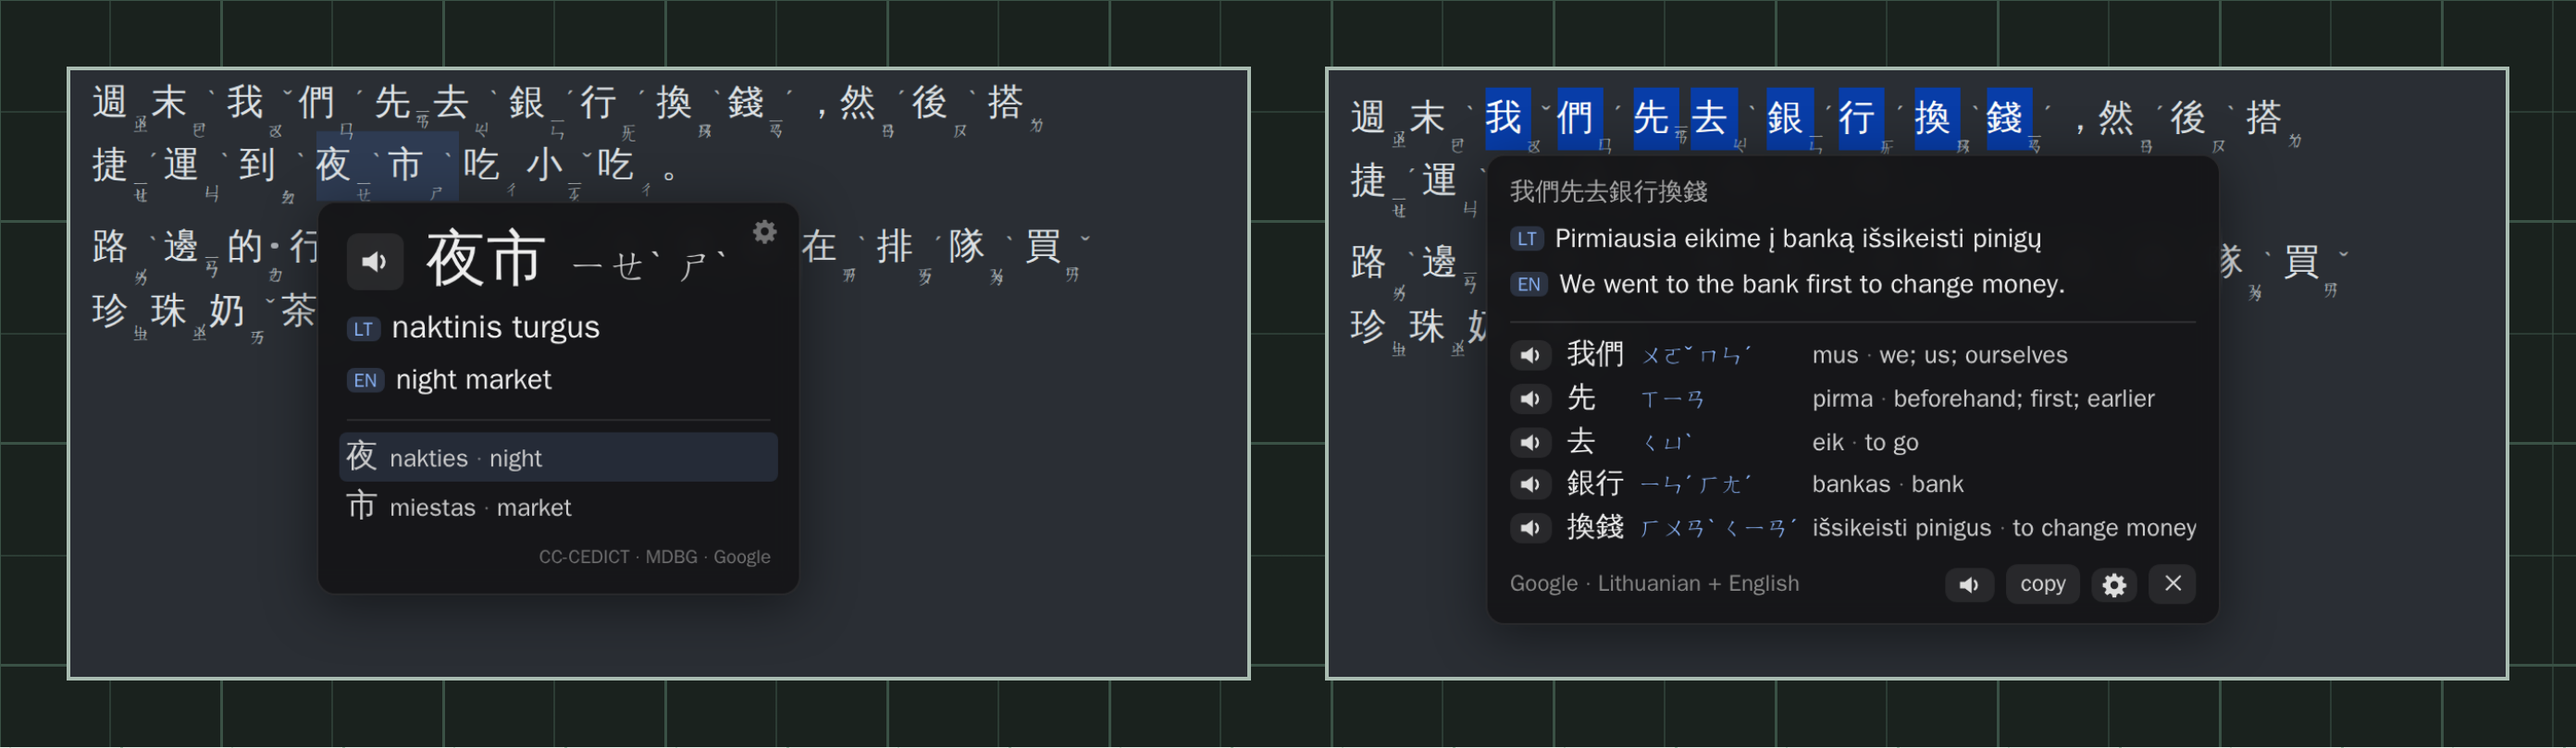
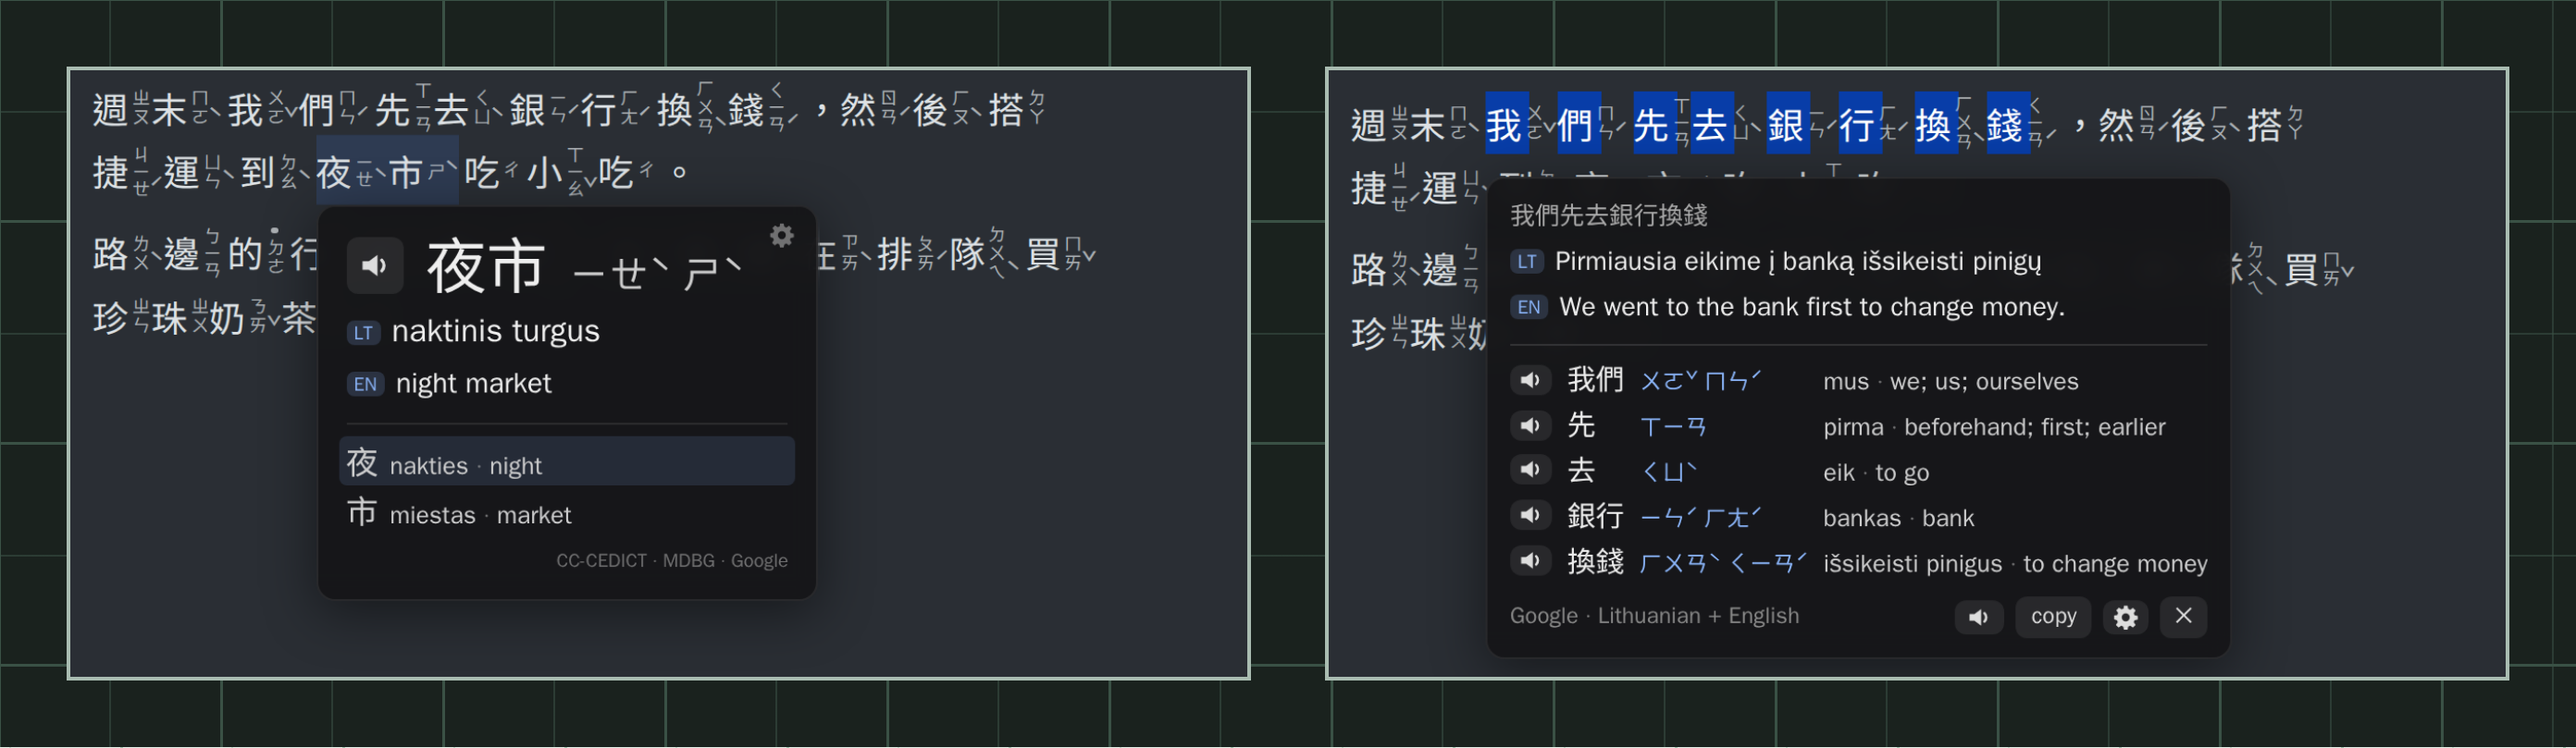
fix(assets): Bundle Noto Sans TC so README zhuyin columns don't collapse
Why: The Playwright Docker image has no Noto CJK, so Chromium fell back to WenQuanYi, which has no vertical metrics, and stacked every zhuyin column into one glyph.

- fetch-fonts.py also downloads Noto Sans TC; site.html and build.js use it
- Re-render all docs/img/*.png
- Note the bundled font in tools/assets/README.md and the README credits

diff --git a/tools/assets/site.html b/tools/assets/site.html
@@ -1,9 +1,9 @@
 <!doctype html><html lang="zh-TW"><head><meta charset="utf-8"><style>
 @import url(fonts.css);
 *{box-sizing:border-box}
-body{margin:0;background:#fff;color:#222;font:19px/1.75 "Noto Sans CJK TC",sans-serif}
+body{margin:0;background:#fff;color:#222;font:19px/1.75 "Noto Sans TC",sans-serif}
 header{display:flex;align-items:center;gap:28px;padding:14px 32px;border-bottom:1px solid #e6e6e6}
-.logo{font:700 20px "Noto Sans CJK TC";color:#2f6f5e}
+.logo{font:700 20px "Noto Sans TC";color:#2f6f5e}
 nav{display:flex;gap:20px;font-size:15px;color:#555}
 main{padding:22px 32px 26px}
 h1{font-size:28px;margin:0 0 6px;line-height:1.5}
@@ -11,7 +11,7 @@ h1{font-size:28px;margin:0 0 6px;line-height:1.5}
 p{margin:0 0 10px}
 .modal{position:fixed;left:50%;top:50%;transform:translate(-50%,-50%);width:360px;height:118px;padding:16px 18px;border-radius:10px;
   background:#fff;box-shadow:0 10px 40px rgba(0,0,0,.25);font-size:16px;line-height:1.6}
-.modal .b{position:absolute;bottom:14px;border:0;border-radius:6px;padding:5px 12px;font:14px "Noto Sans CJK TC"}
+.modal .b{position:absolute;bottom:14px;border:0;border-radius:6px;padding:5px 12px;font:14px "Noto Sans TC"}
 .modal .ok{right:16px;background:#2f6f5e;color:#fff}.modal .no{right:84px;background:#eee;color:#444}
 .dim{position:fixed;inset:0;background:rgba(0,0,0,.35)}
 @media (prefers-color-scheme: dark){body{background:#2a2e34;color:#dde1e4}header{border-color:#3a3f46}.logo{color:#6fc2a8}nav{color:#9aa1a8}.meta{color:#7d848b}}

diff --git a/tools/assets/build.js b/tools/assets/build.js
@@ -186,7 +186,7 @@ function drawCallouts() {
   const col = rel(host.querySelector('zy-col').getBoundingClientRect(), host);
   const s1 = rng(zs.firstChild, 0), s2 = rng(zs.firstChild, 1), t = rng(tn.firstChild, 0), c = rng(ch, 0);
   const LX = 760;   // x of the label column
-  const sym = (z) => `<span style="font-style:normal;font-family:'Noto Sans CJK TC';font-size:34px;color:#1F2D3A;display:inline-block;width:46px;vertical-align:-4px">${z}</span>`;
+  const sym = (z) => `<span style="font-style:normal;font-family:'Noto Sans TC';font-size:34px;color:#1F2D3A;display:inline-block;width:46px;vertical-align:-4px">${z}</span>`;
   label(host, LX, s1.cy - 24, sym('ㄧ') + 'sounds like “ee” in <i>see</i>', 500);
   arrow(svg, LX - 16, s1.cy, col.r + 18, s1.cy, 10);
   const ny = s2.cy + 26;   // a little below ㄣ's centre, to pass under the tone glyph

diff --git a/tools/assets/fetch-fonts.py b/tools/assets/fetch-fonts.py
@@ -1,13 +1,14 @@
 #!/usr/bin/env python3
-"""Download the two webfonts used by poster.html and site.html, and write fonts.css pointing at local files.
+"""Download the three webfonts used by poster.html, site.html and the zhuyin itself, and write fonts.css pointing at local files.
 
-Google Fonts serves CJK fonts as ~230 unicode-range subsets (woff2); all of them are fetched (~10 MB),
+Google Fonts serves CJK fonts as ~350 unicode-range woff2 subsets; all of them are fetched (~15 MB),
 so the renders work offline and don't depend on the network at screenshot time.
 """
 import concurrent.futures, os, re, urllib.request
 
 UA = 'Mozilla/5.0 (X11; Linux x86_64) AppleWebKit/537.36 (KHTML, like Gecko) Chrome/120.0 Safari/537.36'
 CSS_URL = ('https://fonts.googleapis.com/css2?family=LXGW+WenKai+TC:wght@400;700'
+           '&family=Noto+Sans+TC:wght@400;700'
            '&family=Literata:ital,opsz,wght@0,7..72,400;0,7..72,600;0,7..72,700;1,7..72,400&display=block')
 
 def get(url):

diff --git a/tools/assets/README.md b/tools/assets/README.md
@@ -10,7 +10,7 @@ Requirements: Node 18+, Python 3, curl.
 cd tools/assets
 npm install                  # Playwright
 npx playwright install chromium
-sh fetch-deps.sh             # dictionaries + fonts, about 25 MB, not committed
+sh fetch-deps.sh             # dictionaries + fonts, about 30 MB, not committed
 node build.js                # → shots/*.png and ../../docs/img/*.png
 node build.js --poster       # also → out/poster.png (the whole poster as one tall image)
 ```
@@ -25,7 +25,7 @@ With the same Chromium, fonts and dictionaries, the output is byte-identical to 
 | `poster.html` | The layout every image is cut from: practice-grid background, browser frames, and `class="live"` blocks that the userscript annotates itself. |
 | `build.js` | Renders everything; the steps are described below. |
 | `fetch-deps.sh` | Downloads `vendor/zhuyin-dict.js` and `vendor/cedict.gz`, the same files as the script's `@resource` lines. It then runs `fetch-fonts.py`. |
-| `fetch-fonts.py` | Downloads LXGW WenKai TC and Literata from Google Fonts into `fonts/` and writes `fonts.css`, so rendering needs no network. |
+| `fetch-fonts.py` | Downloads LXGW WenKai TC, Noto Sans TC and Literata from Google Fonts into `fonts/` and writes `fonts.css`, so rendering needs no network. |
 
 `vendor/`, `fonts/`, `fonts.css`, `shots/` and `out/` are generated and git-ignored.
 
@@ -79,7 +79,7 @@ The look is a Taiwanese primary-school workbook. Those textbooks print zhuyin in
 Fonts:
 - **LXGW WenKai TC:** a 楷書-style face close to textbook lettering, used for the large Chinese.
 - **Literata:** a book serif for all Latin text.
-- **Noto Sans CJK TC:** draws the zhuyin itself, since that's what the script requests.
+- **Noto Sans TC:** draws the zhuyin and the demo site, since it is the first font the script requests. It is bundled rather than taken from the system: a CJK fallback without vertical metrics (WenQuanYi in the Playwright Docker image) stacks a zhuyin column into one glyph.
 
 ## Changing things
 

diff --git a/README.md b/README.md
@@ -218,7 +218,7 @@ MIT, see [`LICENSE`](LICENSE).
 
 - **Zhuyin readings:** [McBopomofo](https://github.com/openvanilla/McBopomofo) dictionary data (MIT), via yt-zhuyin. The script downloads it at install; this repo doesn't include it.
 - **Word meanings:** [CC-CEDICT](https://cc-cedict.org/) by MDBG ([CC BY-SA 4.0](https://creativecommons.org/licenses/by-sa/4.0/)). Also downloaded at install, not included here.
-- **Fonts in the README images:** LXGW WenKai TC and Literata, both under the SIL Open Font License.
+- **Fonts in the README images:** LXGW WenKai TC, Noto Sans TC and Literata, all under the SIL Open Font License.
 
 ## Images in this README
 
